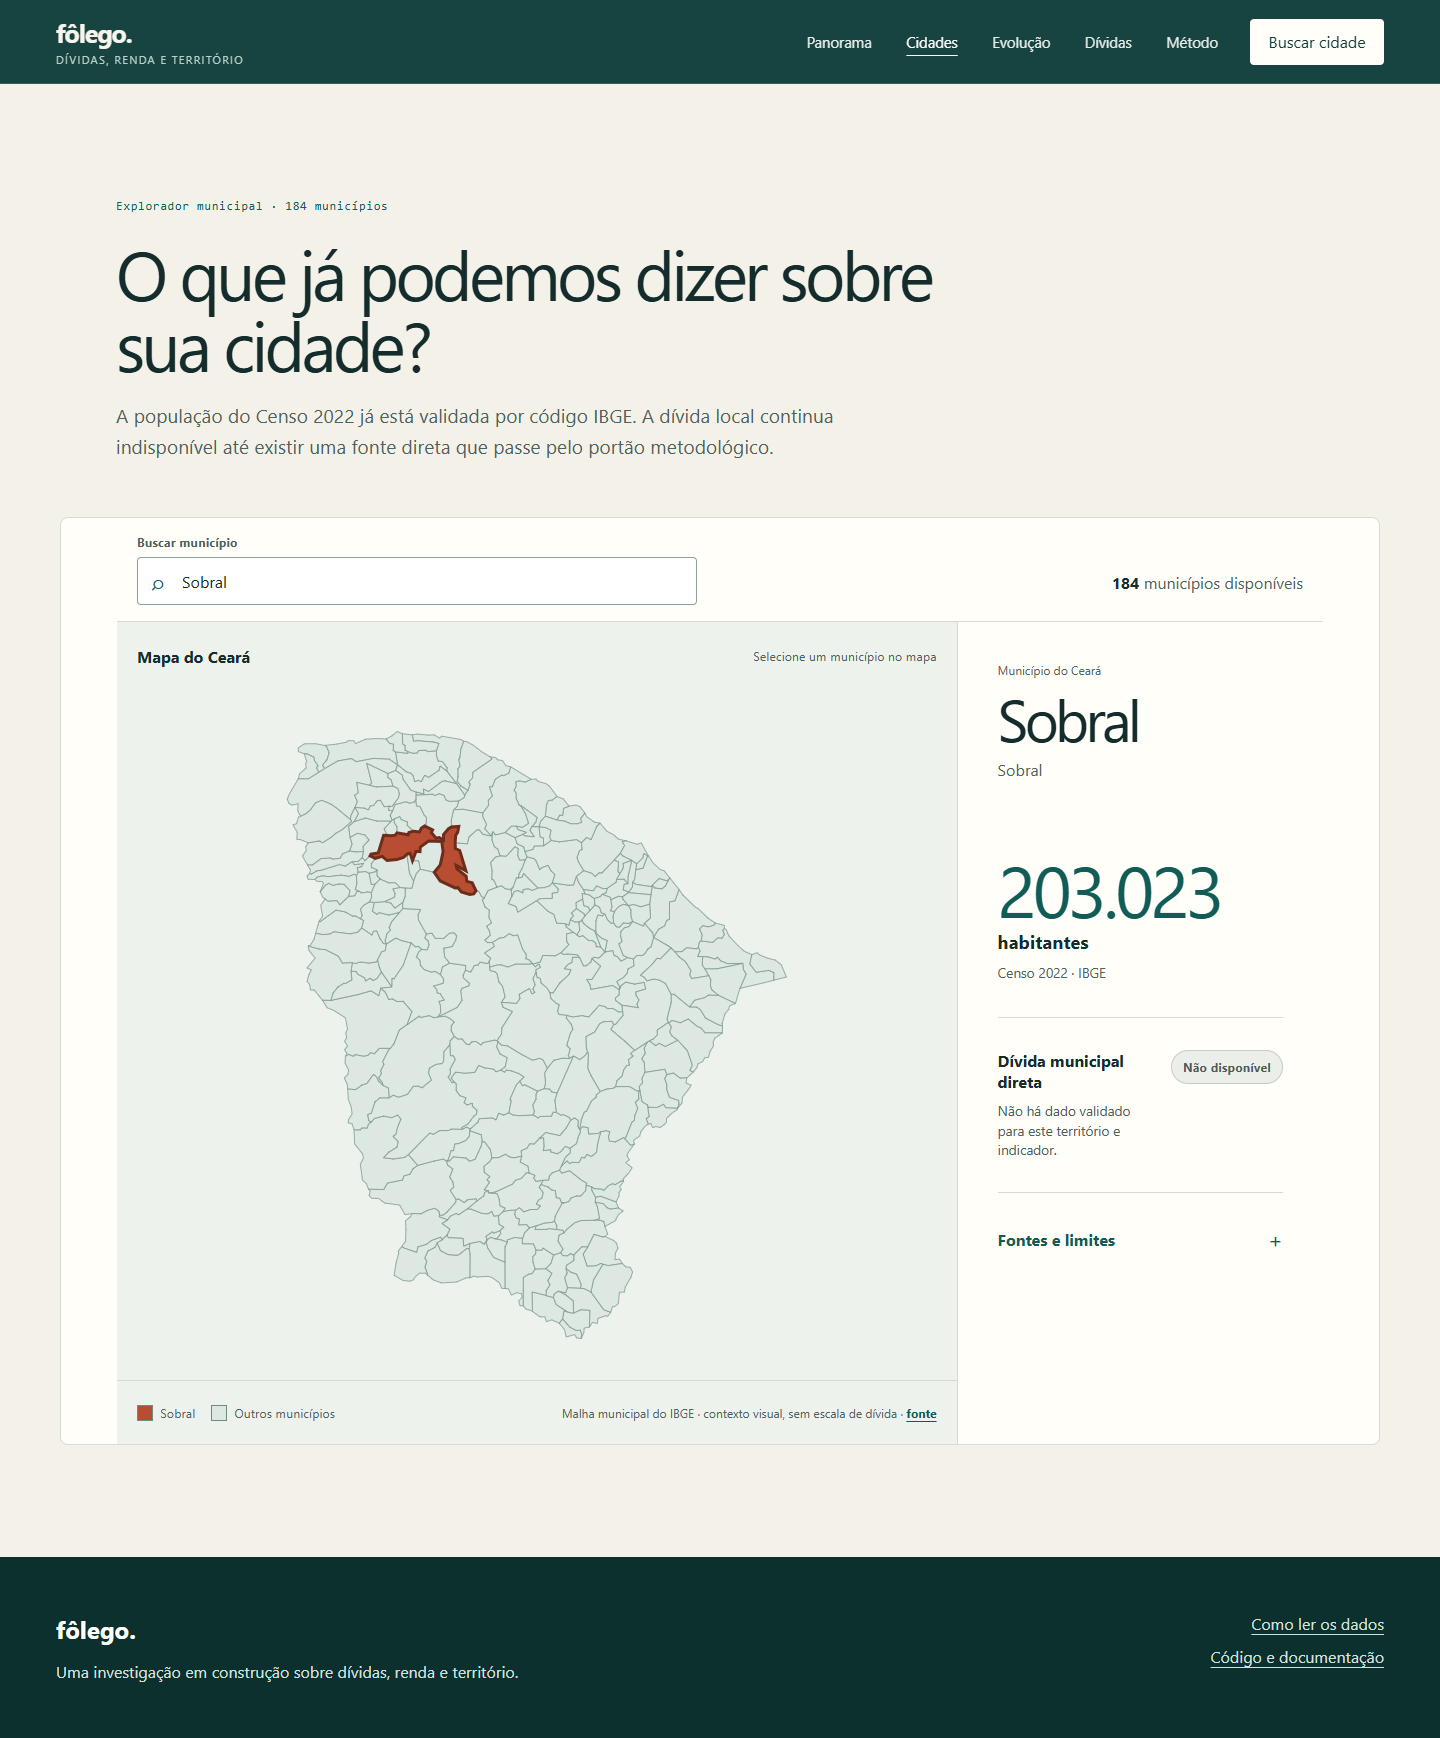
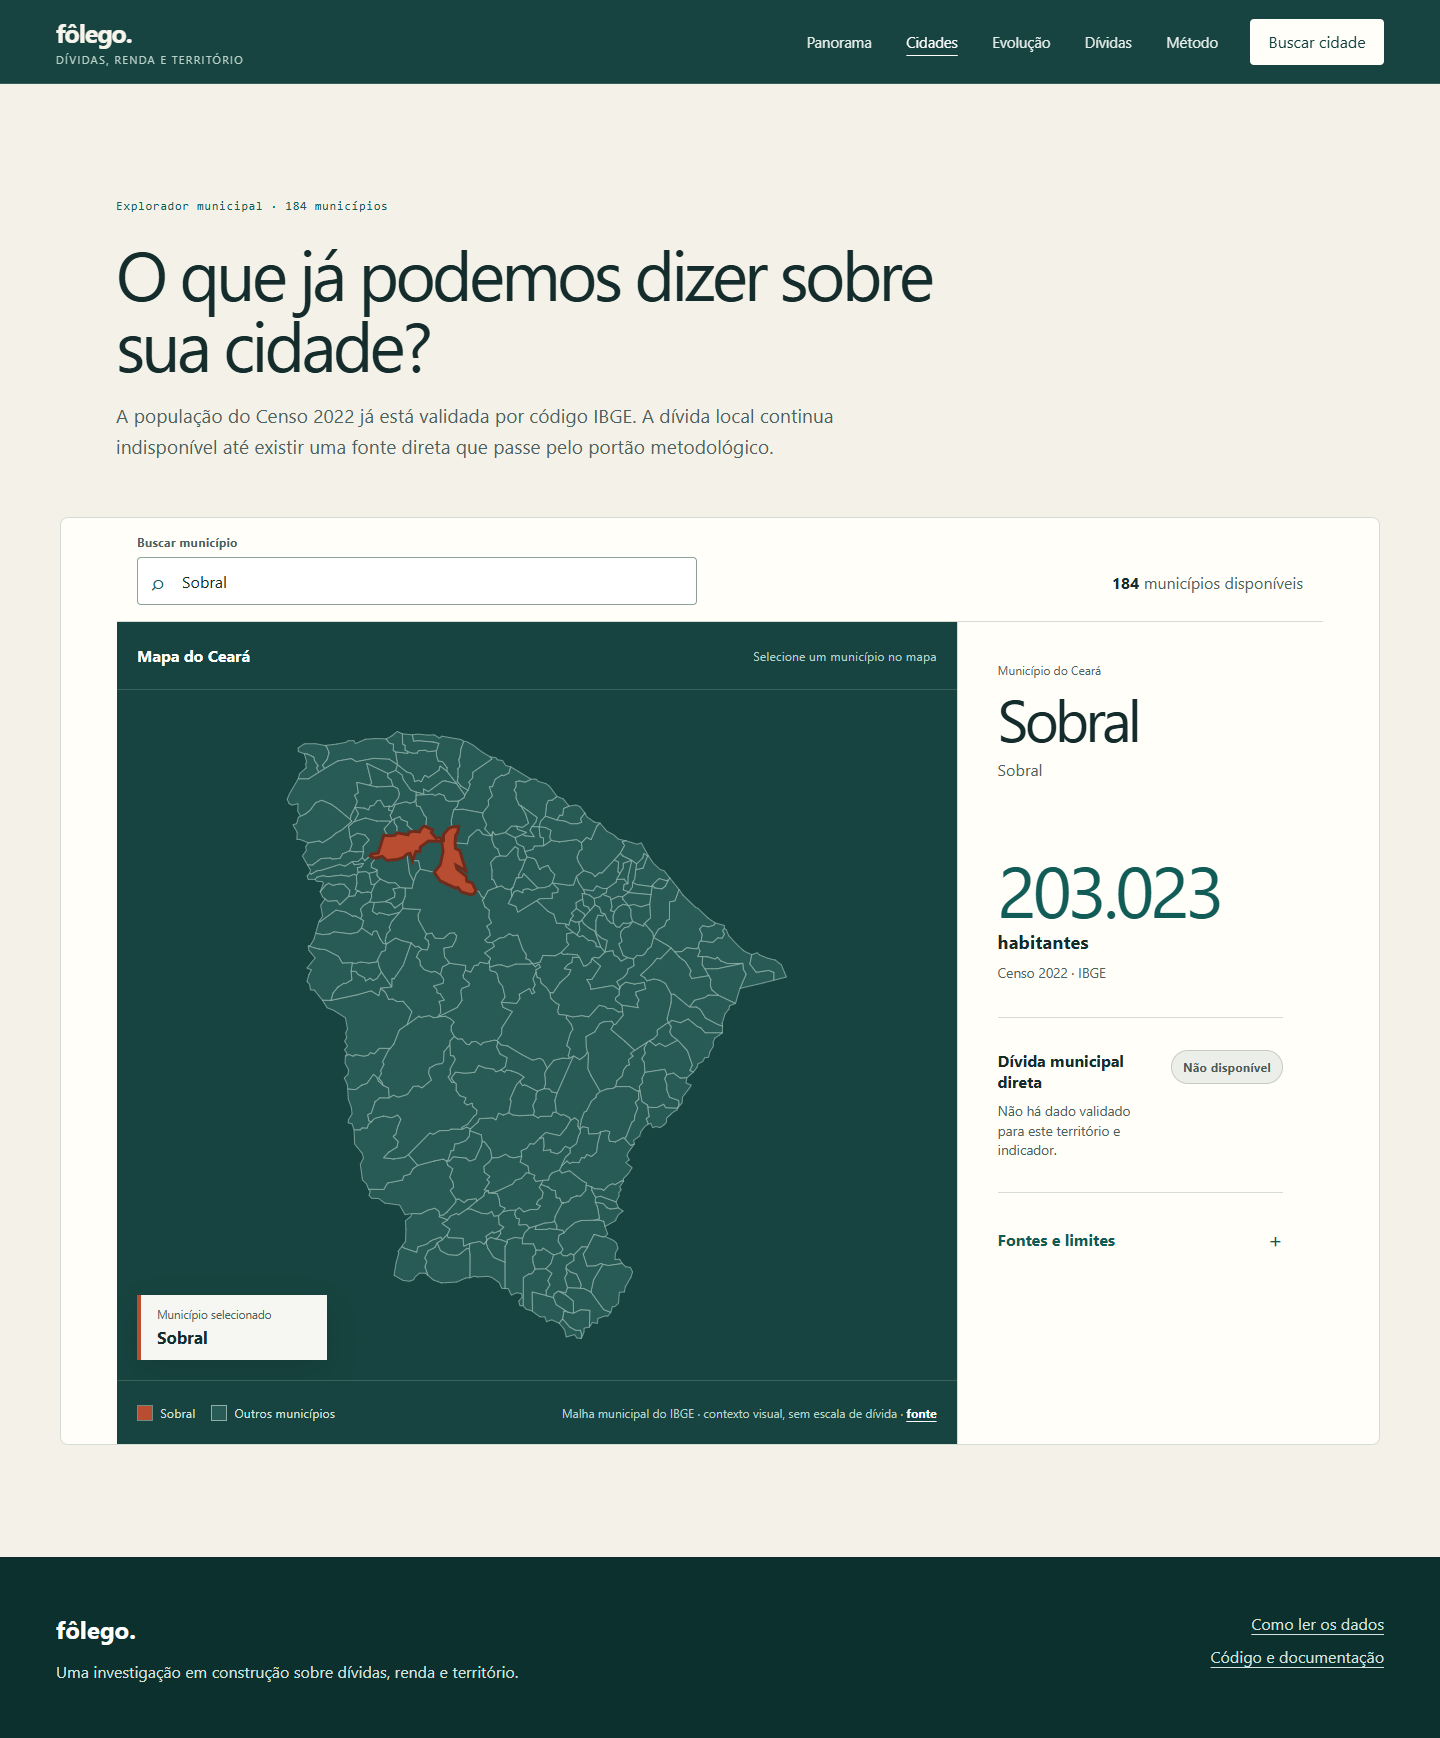
fix: preserve context during map selection

Changed region(s): [[0.0625, 0.3418, 0.6875, 0.8389]]

diff --git a/app/src/styles.css b/app/src/styles.css
@@ -11,6 +11,7 @@
   --muted: #4c6260;
   --brand: #125c57;
   --hero: #103e3b;
+  --map-deep: #174440;
   --accent: #b94d32;
   --line: #d7dcd3;
   --missing: #c7cbc5;
@@ -1063,7 +1064,8 @@ a {
   min-width: 0;
   margin: 0;
   padding: 0;
-  background: #edf2ed;
+  color: #f8f5ed;
+  background: var(--map-deep);
   border: 0;
   border-radius: 0;
 }
@@ -1075,7 +1077,8 @@ a {
   align-items: center;
   gap: 1rem;
   padding: 0.9rem 1.25rem;
-  color: var(--muted);
+  color: #b9d1c8;
+  border-bottom: 1px solid rgba(255, 255, 255, 0.15);
 }
 
 .map-toolbar h2,
@@ -1084,7 +1087,7 @@ a {
 }
 
 .map-toolbar h2 {
-  color: var(--ink);
+  color: #ffffff;
   font-size: 1rem;
   font-weight: 680;
 }
@@ -1106,13 +1109,13 @@ a {
 }
 
 .municipal-explorer .map-shape {
-  fill: #dce8e1;
-  stroke: #829a92;
+  fill: #285b56;
+  stroke: #8eb0a7;
   stroke-width: 0.8;
 }
 
 .municipal-explorer .map-shape:hover {
-  fill: #bfd4c9;
+  fill: #3f746d;
 }
 
 .municipal-explorer .map-shape.is-selected {
@@ -1128,7 +1131,7 @@ a {
   align-items: center;
   gap: 1.5rem;
   padding: 0.9rem 1.25rem;
-  border-top: 1px solid var(--line);
+  border-top: 1px solid rgba(255, 255, 255, 0.15);
 }
 
 .municipal-explorer .map-legend {
@@ -1138,16 +1141,53 @@ a {
 
 .map-footer figcaption {
   margin: 0;
-  color: var(--muted);
+  color: #b9d1c8;
   font-size: 0.75rem;
   line-height: 1.4;
   text-align: right;
 }
 
 .map-footer figcaption a {
-  color: var(--brand);
+  color: #ffffff;
   font-weight: 650;
   text-underline-offset: 0.2rem;
+}
+
+.municipal-explorer .map-legend {
+  color: #d5e1dc;
+}
+
+.municipal-explorer .legend-boundary {
+  background: #285b56;
+  border-color: #8eb0a7;
+}
+
+.map-click-label {
+  position: absolute;
+  left: 1.25rem;
+  bottom: 1.25rem;
+  min-width: 190px;
+  max-width: calc(100% - 2.5rem);
+  padding: 0.8rem 1rem;
+  color: var(--ink);
+  background: rgba(255, 254, 249, 0.96);
+  border-left: 4px solid var(--accent);
+  box-shadow: 0 12px 32px rgba(5, 25, 23, 0.2);
+}
+
+.map-click-label span,
+.map-click-label strong {
+  display: block;
+}
+
+.map-click-label span {
+  color: var(--muted);
+  font-size: 0.72rem;
+}
+
+.map-click-label strong {
+  margin-top: 0.2rem;
+  font-size: 1.05rem;
 }
 
 .municipal-explorer .coverage-panel {

diff --git a/app/src/components/MunicipalityMap.tsx b/app/src/components/MunicipalityMap.tsx
@@ -66,6 +66,10 @@ export function MunicipalityMap({
             );
           })}
         </svg>
+        <div className="map-click-label" aria-live="polite">
+          <span>Município selecionado</span>
+          <strong>{selected.name}</strong>
+        </div>
       </div>
 
       <div className="map-footer">

diff --git a/app/src/pages/CitiesPage.tsx b/app/src/pages/CitiesPage.tsx
@@ -22,7 +22,7 @@ export function CitiesPage() {
   function selectMunicipality(slug: string) {
     const next = new URLSearchParams(searchParams);
     next.set("cidade", slug);
-    setSearchParams(next);
+    setSearchParams(next, { preventScrollReset: true });
   }
 
   return (

diff --git a/sdd/DECISOES.md b/sdd/DECISOES.md
@@ -15,5 +15,6 @@
 | D11 | Adotar a opção B no MVP municipal: contexto oficial, dívida local indisponível e análise de crédito na escala compatível | A fase 00 validou os 184 municípios e a população de 2022, mas não demonstrou fonte pública direta de dívida municipal nem correspondência oficial dos códigos SUB_REGIAO 60–63 | Quando uma fonte direta passar pelos seis critérios ou houver correspondência territorial oficial |
 | D12 | Usar a malha municipal do IBGE como mapa de contexto, sem escala temática de dívida | A geometria situa cada cidade e sincroniza a navegação, enquanto a ausência de indicador municipal impede uma codificação quantitativa honesta | Quando houver indicador municipal elegível e legenda correspondente |
 | D13 | Fazer do mapa a superfície principal, com busca compacta e ficha lateral única | A lista permanente e os cartões fragmentados escondiam o território, repetiam conteúdo e alongavam excessivamente a experiência móvel | Após testes de uso ou quando novos indicadores exigirem controles adicionais |
+| D14 | Usar `#174440` como campo do mapa, mostrar o nome selecionado sobre ele e impedir reset de rolagem na troca de município | Preferência visual e de interação confirmada pelo usuário; a seleção deve manter o contexto espacial e a posição de leitura | Se testes de contraste ou uso indicarem dificuldade |
 
 Formato de nova decisão: data, contexto, alternativas consideradas, escolha, consequência, evidência e fase afetada.

diff --git a/evidencias/QA_FRONTEND.md b/evidencias/QA_FRONTEND.md
@@ -10,6 +10,7 @@ Data: 06/11/2026. Escopo: base navegável, população oficial e explorador cart
 - Navegação confirmada nas rotas `/`, `/cidades` e `/metodo`, todas com `h1` semântico.
 - Busca por “Crato” via teclado atualiza a ficha e a URL para `?cidade=crato`.
 - As 184 geometrias são renderizadas; clicar em Fortaleza no mapa sincroniza mapa, ficha e URL.
+- A seleção atualiza a etiqueta com o nome dentro do mapa e preserva a posição vertical da página.
 - A nova composição usa busca compacta, mapa dominante e uma única ficha lateral; no celular a ficha antecede o mapa.
 - Mudança de rota reinicia a rolagem no topo. Links internos continuam levando às seções da página inicial.
 - Nenhum erro ou aviso foi registrado no console durante a rodada no navegador.

diff --git a/03_design/REDESIGN_EXPLORADOR_MUNICIPAL.md b/03_design/REDESIGN_EXPLORADOR_MUNICIPAL.md
@@ -44,5 +44,7 @@ No celular, a ordem passa a ser busca, resumo municipal, mapa e fonte. A busca f
 - Tratar indisponibilidade em uma linha neutra, sem usar a cor da seleção territorial.
 - Recolher metadados extensos em “Fontes e limites”.
 - Usar terracota somente para o município selecionado.
+- Usar `#174440` como campo cartográfico principal, com limites claros e contraste tonal.
+- Exibir o nome selecionado dentro do mapa e preservar a posição da página durante a troca de município.
 - Preservar equivalente textual, busca por teclado e atualização anunciada da ficha.
 
